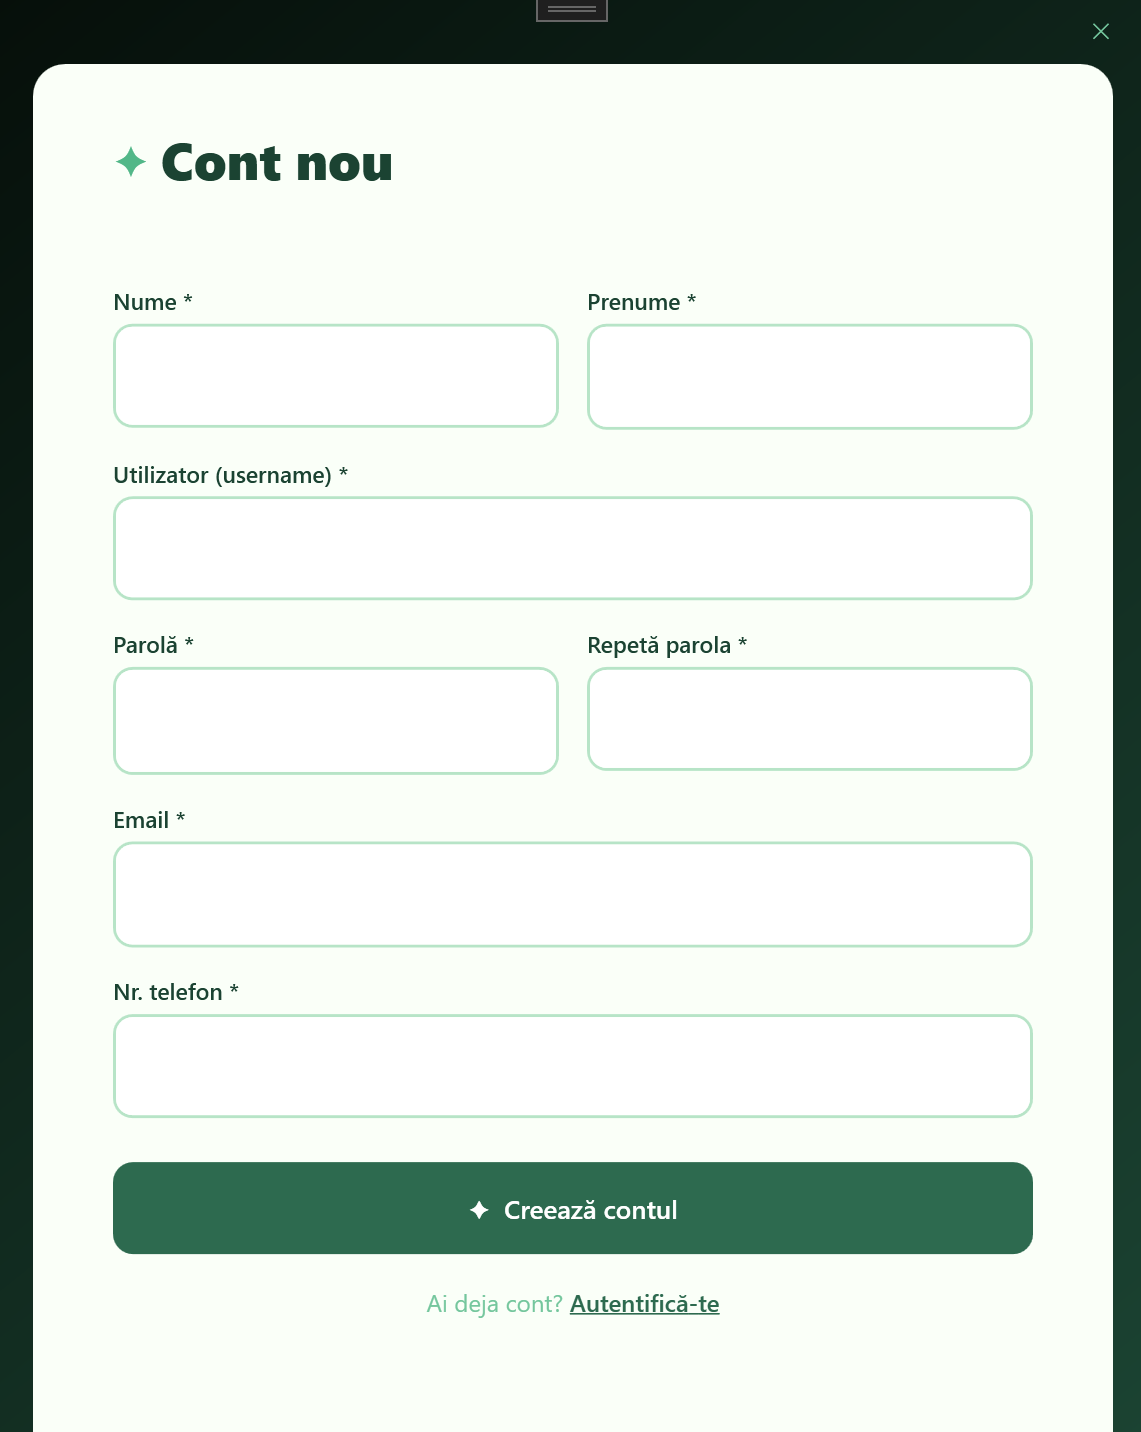
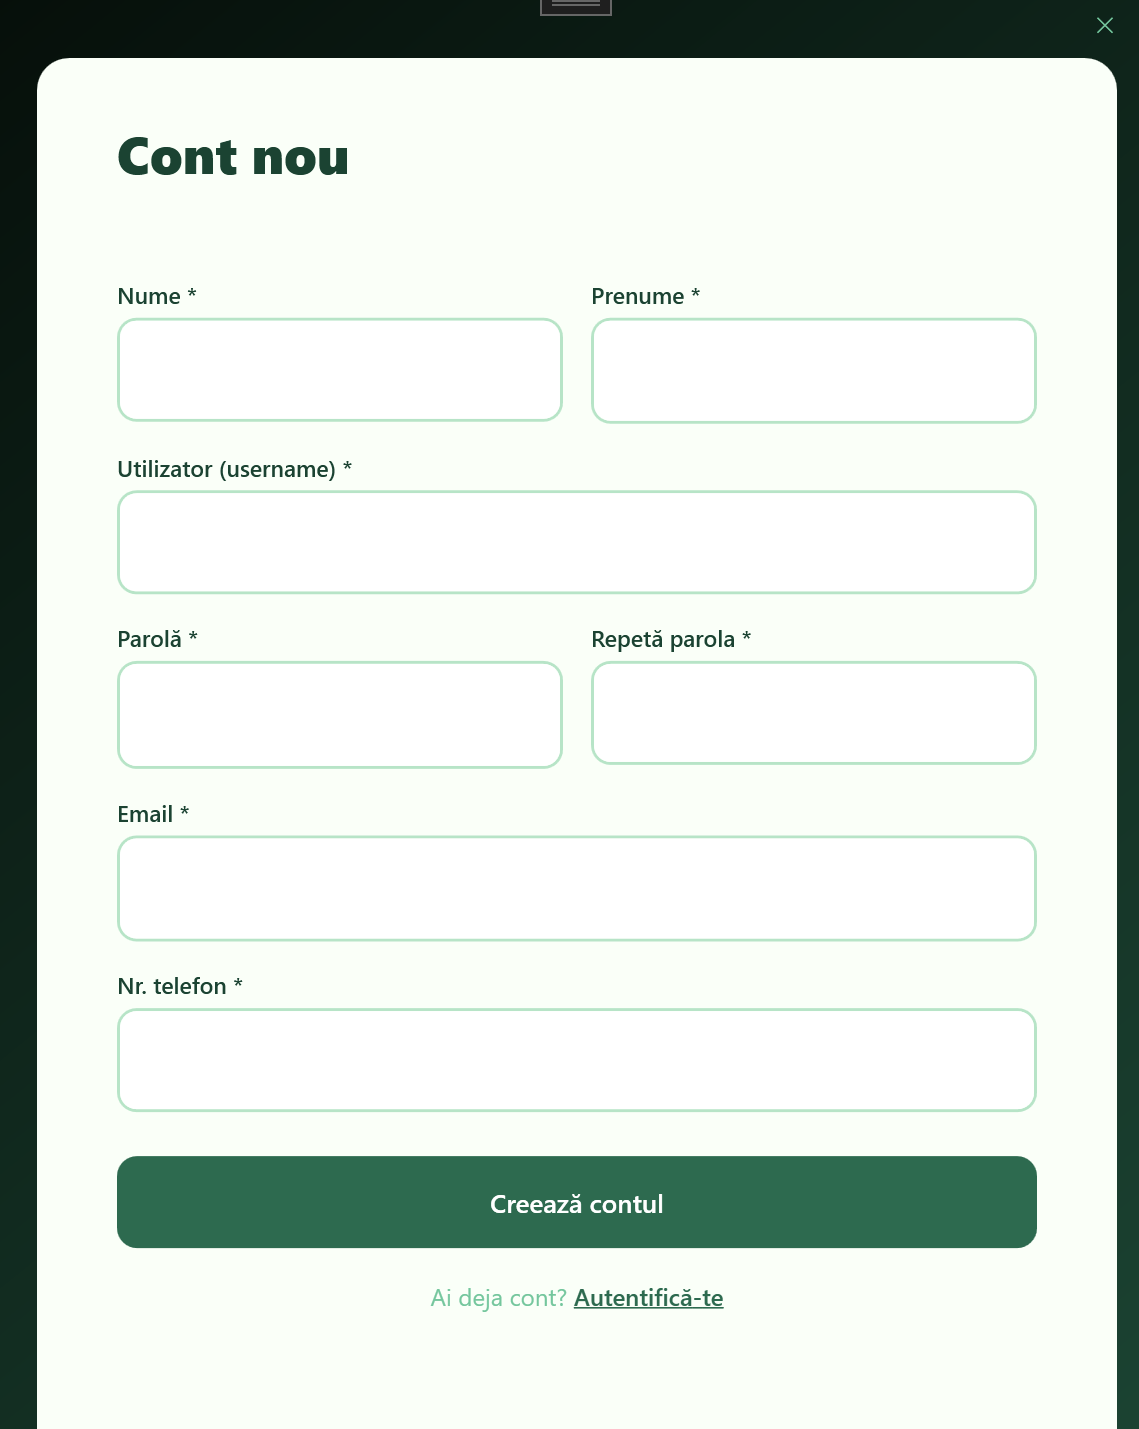
add: design changes

diff --git a/market/RegisterWindow.xaml b/market/RegisterWindow.xaml
@@ -142,7 +142,7 @@
                         <StackPanel>
 
                             <StackPanel Orientation="Horizontal" Margin="0,0,0,4">
-                                <TextBlock Text="✦ " Foreground="#52B788"
+                                <TextBlock Foreground="#52B788"
                                            FontSize="22" VerticalAlignment="Center"/>
                                 <TextBlock Text="Cont nou" FontFamily="Segoe UI Black"
                                            FontSize="26" Foreground="#1B4332"/>
@@ -208,7 +208,7 @@
                                            FontSize="12" TextWrapping="Wrap"/>
                             </Border>
 
-                            <Button Content="✦  Creează contul"
+                            <Button Content="Creează contul"
                                     Style="{StaticResource RegBtn}"
                                     HorizontalAlignment="Stretch"
                                     Click="btnRegister_Click"/>
